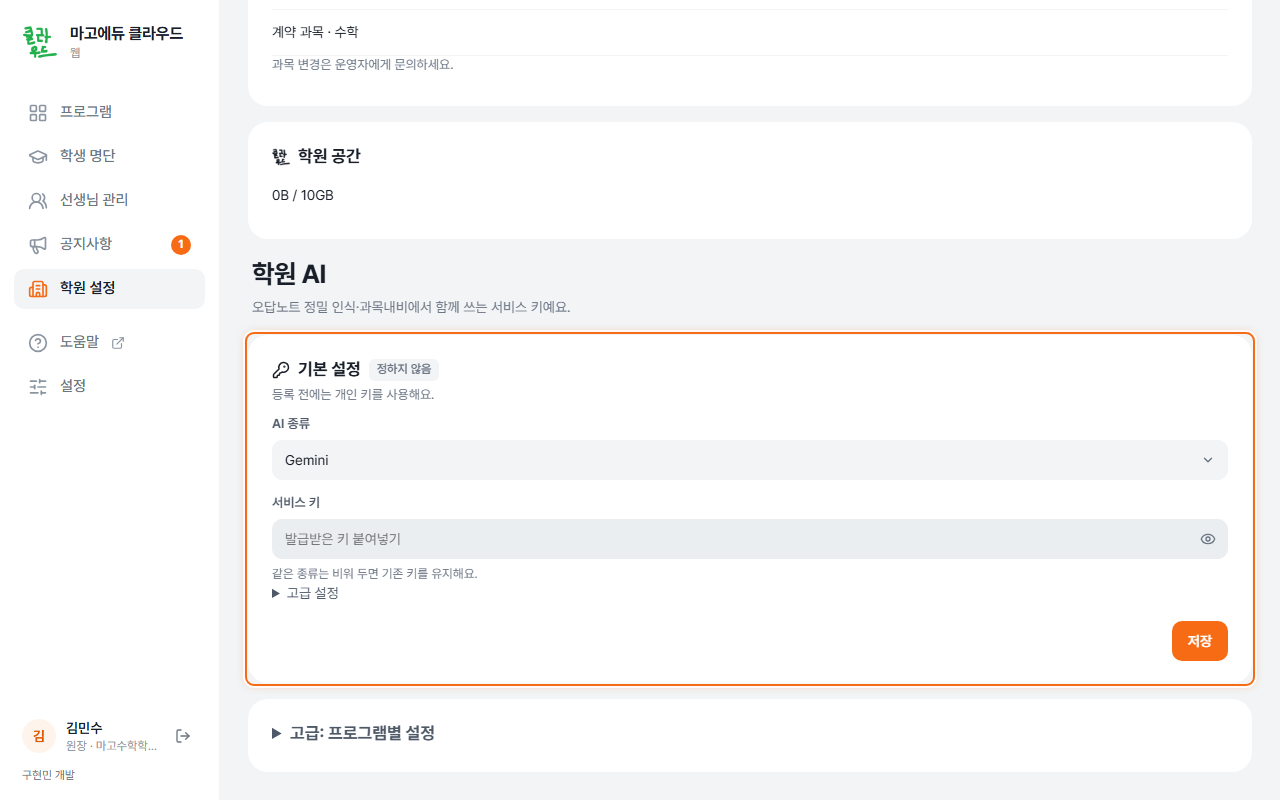
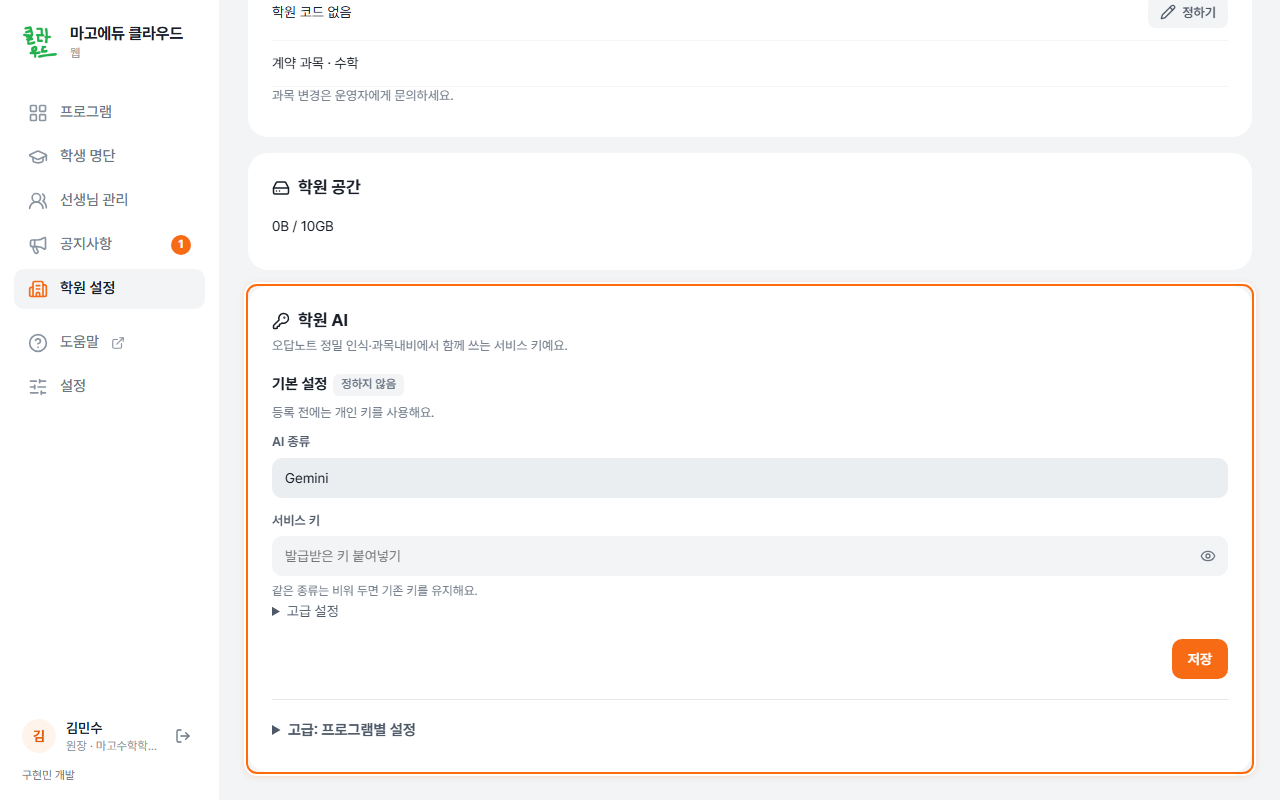
학원 설정: 학원 AI를 다른 칸과 같은 상자로, 저장 공간 제목 아이콘을 선 아이콘으로
- 학원 AI: 화면 제목 크기 대신 '학원 정보'·'학원 공간'과 같은 상자 제목, 설명은 상자 안, 기본 설정·프로그램별 설정은 상자 안 소제목
- 학원 공간·용량 바꾸기·서버 저장 공간: 작게 줄이면 깨져 보이던 클라우드 글자 로고 대신 drive 선 아이콘
- 설명서 그림(학원 설정·학원 AI·내 계정) 다시 찍음

diff --git a/launcher/src/renderer/js/views/academy-ai.js b/launcher/src/renderer/js/views/academy-ai.js
@@ -67,8 +67,8 @@ export class AcademyAiView {
     this.data = null;
     this.seq = 0;
     this.stamp = store.state.academyStamp;
-    this.main = h('div', { class: 'card' });
-    this.apps = h('details', { class: 'card advanced-settings' });
+    this.main = h('div');
+    this.apps = h('details', { class: 'academy-ai-apps advanced-settings' });
     this.picker = this.isAdmin && !academy
       ? academyPicker(cloud, (id) => {
           this.academy = id;
@@ -76,20 +76,13 @@ export class AcademyAiView {
         })
       : null;
     this.el = h(
-      'div',
-      {},
-      h(
-        'div',
-        { class: 'page-head' },
-        h(
-          'div',
-          { class: 'tt' },
-          h('h1', { class: 'title' }, '학원 AI'),
-          h('div', { class: 'subtitle' }, '오답노트 정밀 인식·과목내비에서 함께 쓰는 서비스 키예요.'),
-        ),
-        this.picker ? h('div', { class: 'right' }, this.picker.el) : null,
-      ),
-      h('div', { class: 'stack' }, this.main, this.apps),
+      'section',
+      { class: 'card academy-ai' },
+      h('h2', { class: 'card-title' }, ic('key', 18), '학원 AI'),
+      h('p', { class: 'card-desc' }, '오답노트 정밀 인식·과목내비에서 함께 쓰는 서비스 키예요.'),
+      this.picker ? h('div', { class: 'academy-ai-picker' }, this.picker.el) : null,
+      this.main,
+      this.apps,
     );
     this.init();
   }
@@ -173,7 +166,7 @@ export class AcademyAiView {
     const clear = d ? btn('지우기', { variant: 'danger', onClick: () => this.clear(null) }) : null;
     put(
       this.main,
-      h('h2', { class: 'card-title' }, ic('key', 18), '기본 설정', d ? pill(PROVIDER[d.provider] || d.provider, 'green') : pill('정하지 않음', 'grey')),
+      h('h3', { class: 'academy-ai-sub' }, '기본 설정', d ? pill(PROVIDER[d.provider] || d.provider, 'green') : pill('정하지 않음', 'grey')),
       h('p', { class: 'card-desc' }, d ? `${summary(d)} · ${ago(d.updatedAt)} 바꿈` : '등록 전에는 개인 키를 사용해요.'),
       form.el,
       err,
@@ -186,7 +179,7 @@ export class AcademyAiView {
     const progs = this.data.programs || [];
     put(
       this.apps,
-      h('summary', { class: 'card-title' }, '고급: 프로그램별 설정'),
+      h('summary', { class: 'academy-ai-sub' }, '고급: 프로그램별 설정'),
       h('p', { class: 'card-desc' }, ''),
       ...(progs.length ? progs.map((p) => this.appRow(p)) : [h('div', { class: 'empty', style: { padding: '24px 20px' } }, '프로그램이 없어요')]),
     );

diff --git a/launcher/src/renderer/js/views/academies.js b/launcher/src/renderer/js/views/academies.js
@@ -17,7 +17,7 @@ class AcademyActions {
         await this.load();
       }
     });
-    const quota = btn('학원 공간 용량', { variant: 'subtle', size: 'sm', iconName: 'cloud' });
+    const quota = btn('학원 공간 용량', { variant: 'subtle', size: 'sm', iconName: 'drive' });
     quota.addEventListener('click', async () => {
       const q = input({ type: 'number', min: '0', value: a.quotaMb ?? '', placeholder: '비우면 기본값' });
       const ok = await dialog({
@@ -146,14 +146,14 @@ export class AcademySettingsView extends AcademyActions {
             h('div', { class: 'row' }, h('div', { class: 'grow' }, `학원 코드 ${academy?.code || '없음'}`), code),
             h('div', { class: 'row' }, h('div', { class: 'grow' }, `계약 과목 · ${subjectText(a.subjects)}`), this.isAdmin ? controls.subjects : null),
             this.isAdmin ? null : h('p', { class: 'card-desc' }, '과목 변경은 운영자에게 문의하세요.')),
-          h('section', { class: 'card' }, h('h2', { class: 'card-title' }, ic('cloud', 18), '학원 공간'),
+          h('section', { class: 'card' }, h('h2', { class: 'card-title' }, ic('drive', 18), '학원 공간'),
             h('div', { class: 'row' }, h('div', { class: 'grow' }, `${bytes(a.usageBytes)} / ${a.quotaBytes ? bytes(a.quotaBytes) : '제한 없음'}`), this.isAdmin ? controls.quota : null)),
           this.ai.el,
           this.isAdmin ? btn('학원 지우기', { iconName: 'trash', variant: 'danger', onClick: () => controls.del.click() }) : null));
       if (this.opts.section === 'academy-ai') this.ai.el.scrollIntoView({ block: 'start' });
       controls.edit.replaceChildren(ic('edit', 16), '바꾸기');
       controls.subjects.replaceChildren(ic('edit', 16), '바꾸기');
-      controls.quota.replaceChildren(ic('cloud', 16), '용량 바꾸기');
+      controls.quota.replaceChildren(ic('drive', 16), '용량 바꾸기');
       for (const b of [controls.edit, controls.subjects, controls.quota]) b.classList.remove('subtle');
     } catch (e) { put(this.el, h('div', { class: 'empty' }, errorText(e))); }
   }

diff --git a/launcher/src/renderer/js/views/account.js b/launcher/src/renderer/js/views/account.js
@@ -141,7 +141,7 @@ export class AccountView {
   }
 
   async loadStorage() {
-    put(this.storage, h('h2', { class: 'card-title' }, ic('cloud', 18), '서버 저장 공간'), h('div', { class: 'spinner', style: { margin: '18px 0' } }));
+    put(this.storage, h('h2', { class: 'card-title' }, ic('drive', 18), '서버 저장 공간'), h('div', { class: 'spinner', style: { margin: '18px 0' } }));
     try {
       const r = await this.cloud.refreshStorage();
       const s = this.store.state;
@@ -163,7 +163,7 @@ export class AccountView {
         ),
       );
       put(this.storage, 
-        h('h2', { class: 'card-title' }, ic('cloud', 18), '서버 저장 공간'),
+        h('h2', { class: 'card-title' }, ic('drive', 18), '서버 저장 공간'),
         h('p', { class: 'card-desc' }, '같은 아이디의 기기에서 함께 써요.'),
         usage(r.usageBytes, r.quotaBytes),
         h('div', { style: { height: '8px' } }),

diff --git a/launcher/src/renderer/styles.css b/launcher/src/renderer/styles.css
@@ -439,6 +439,9 @@ select.input {
 .toast > span { flex: 1; min-width: 0; overflow-wrap: anywhere; }
 .toast .btn { color: #fff; flex: none; }
 .toast .btn:hover { background: var(--grey700); }
+.academy-ai-sub { display: flex; align-items: center; gap: 6px; font-size: 15px; font-weight: 700; margin: 18px 0 8px; }
+.academy-ai-apps { border-top: 1px solid var(--grey200); margin-top: 20px; padding-top: 2px; }
+.academy-ai-picker { margin: 14px 0; }
 .advanced-settings > summary { display: list-item; cursor: pointer; color: var(--grey700); }
 .advanced-settings > summary:focus-visible { outline: 2px solid var(--accent); }
 .advanced-settings[open] > summary { margin-bottom: 14px; }
